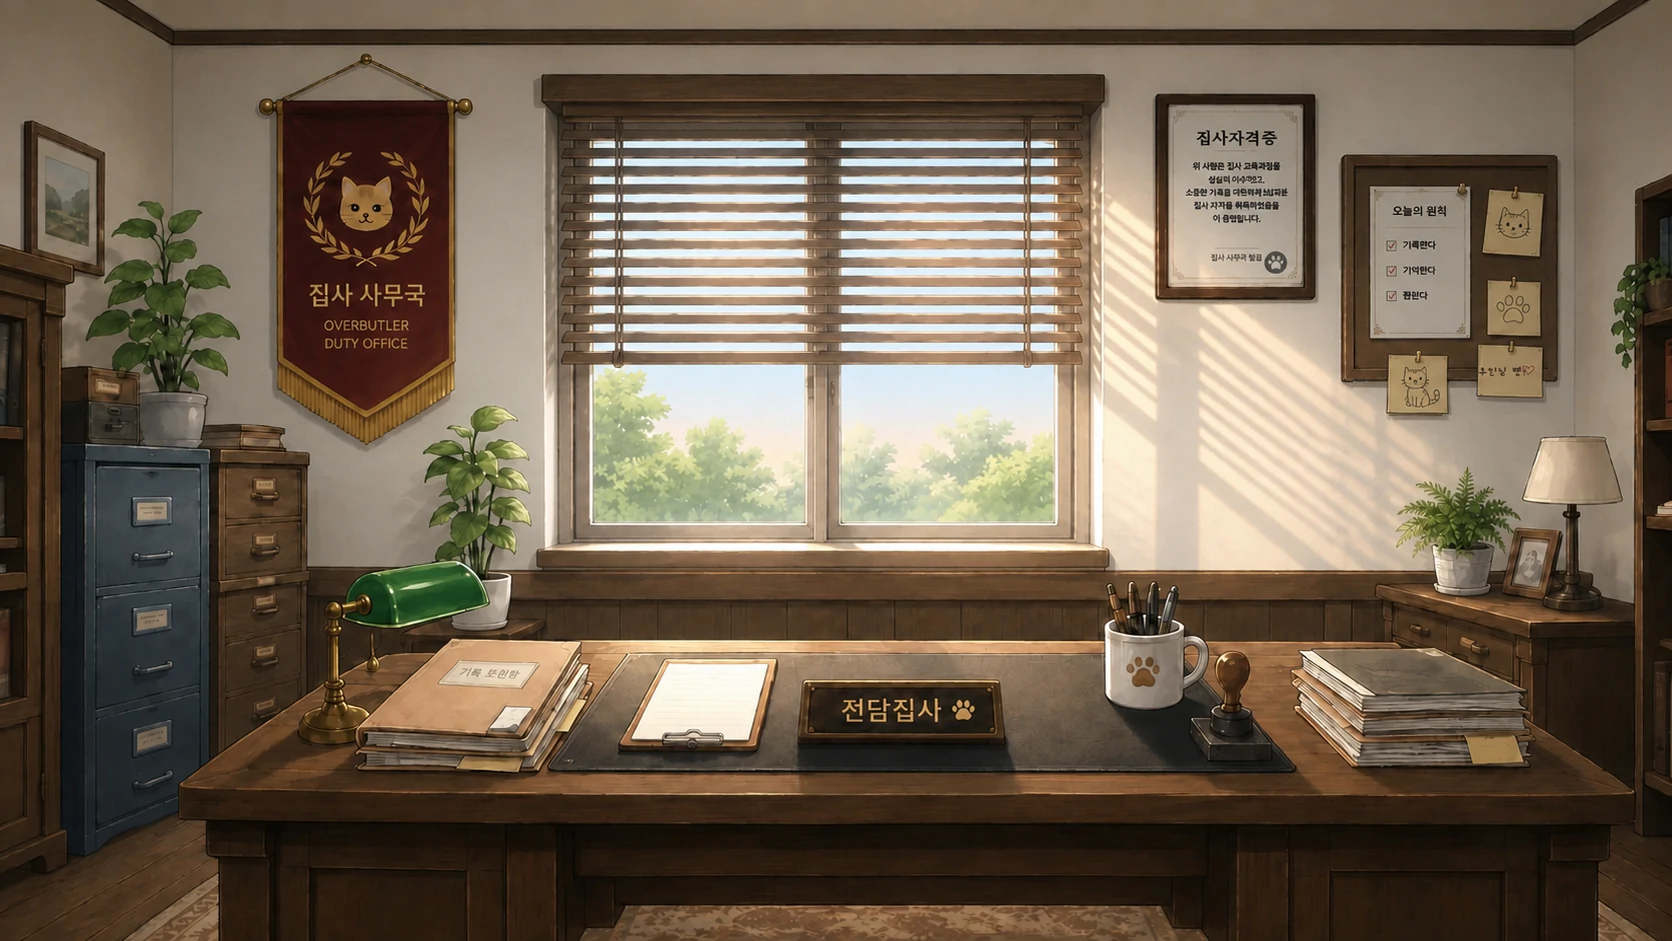
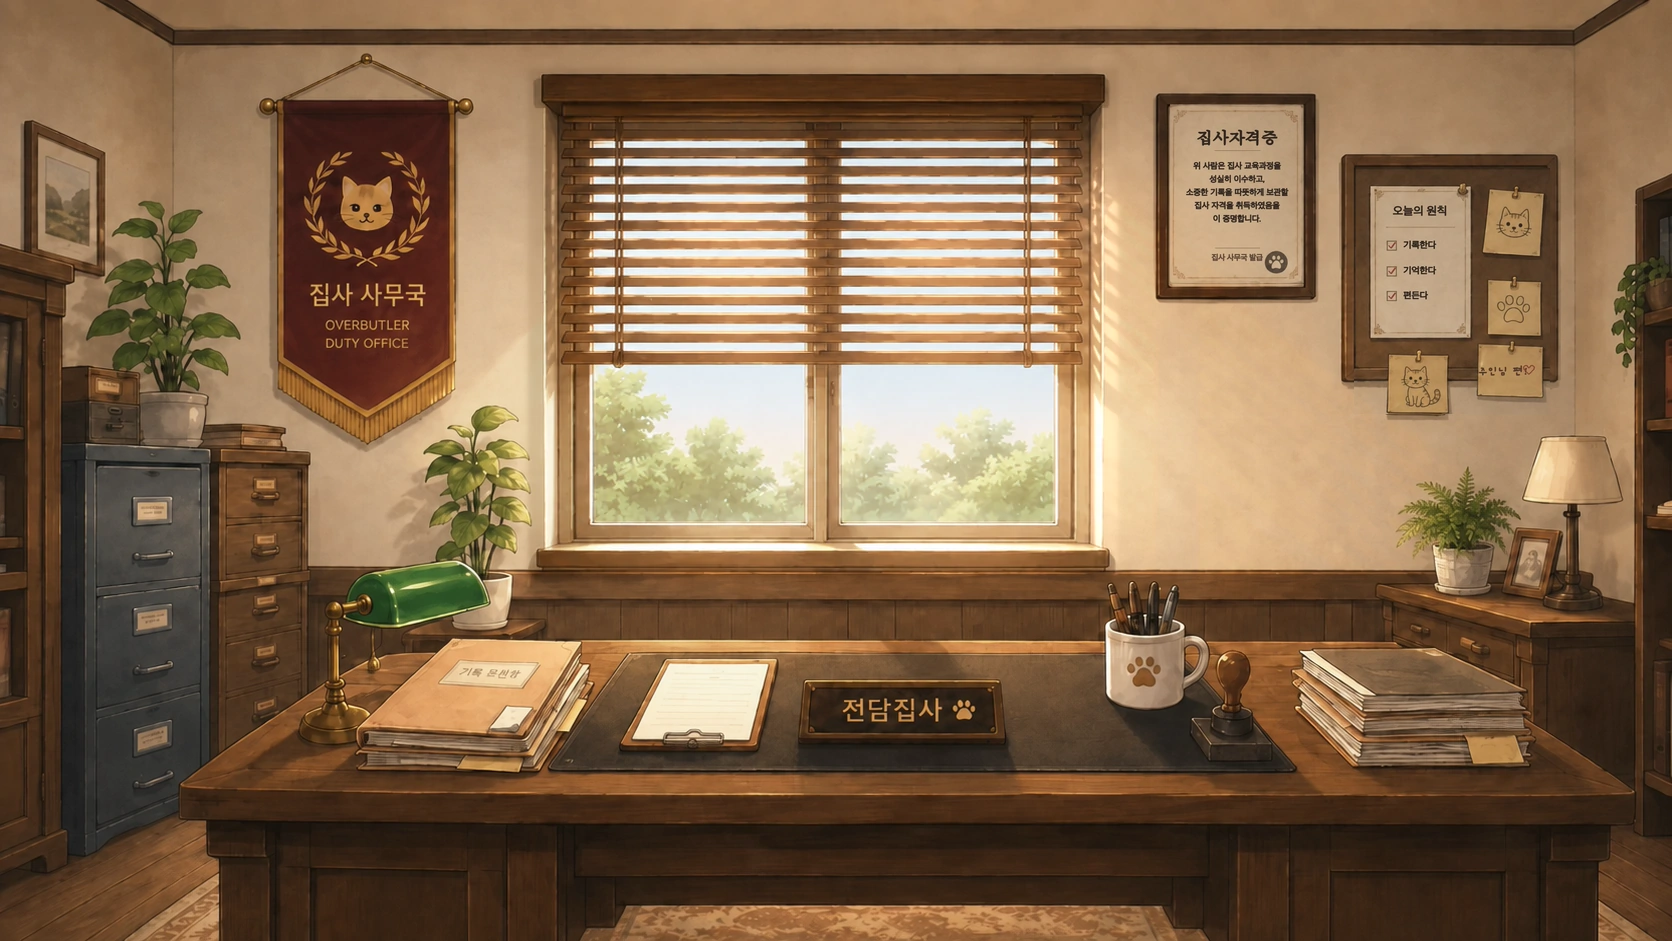
fix: preserve cat office detail across time lighting

diff --git a/retro-office.css b/retro-office.css
@@ -4613,20 +4613,62 @@
   transition: filter 520ms ease, opacity 220ms ease;
 }
 
-html[data-cat-room-light="dawn"] [data-desk-pose] {
-  filter: brightness(.84) saturate(.8) contrast(.94);
-}
-
-html[data-cat-room-light="sunset"] [data-desk-pose] {
-  filter: brightness(.93) saturate(.94) sepia(.08);
-}
-
+html[data-cat-room-light="dawn"] [data-desk-pose],
+html[data-cat-room-light="morning"] [data-desk-pose],
+html[data-cat-room-light="day"] [data-desk-pose],
+html[data-cat-room-light="sunset"] [data-desk-pose],
 html[data-cat-room-light="night-on"] [data-desk-pose] {
-  filter: brightness(.82) saturate(.86) contrast(.94) sepia(.05);
+  filter: none;
 }
 
 html[data-cat-room-light="night-off"] [data-desk-pose] {
   filter: brightness(.66) saturate(.72) contrast(.9);
+}
+
+#cat-home-world .cat-home-background,
+#cat-home-world .cat-home-foreground {
+  transition: filter 520ms ease;
+}
+
+html[data-cat-room-light="dawn"] #cat-home-world .cat-home-background,
+html[data-cat-room-light="dawn"] #cat-home-world .cat-home-foreground {
+  filter: brightness(.82) saturate(.78) contrast(.94);
+}
+
+html[data-cat-room-light="sunset"] #cat-home-world .cat-home-background,
+html[data-cat-room-light="sunset"] #cat-home-world .cat-home-foreground {
+  filter: brightness(.92) saturate(.95) sepia(.06);
+}
+
+html[data-cat-room-light="night-on"] #cat-home-world .cat-home-background,
+html[data-cat-room-light="night-on"] #cat-home-world .cat-home-foreground {
+  filter: brightness(.72) saturate(.78) contrast(.95) sepia(.06);
+}
+
+html[data-cat-room-light="night-off"] #cat-home-world .cat-home-background,
+html[data-cat-room-light="night-off"] #cat-home-world .cat-home-foreground {
+  filter: brightness(.56) saturate(.68) contrast(.92);
+}
+
+#cat-home-world .cat-home-background::after {
+  content: "";
+  position: absolute;
+  inset: 0;
+  pointer-events: none;
+  opacity: 0;
+  transition: opacity 520ms ease;
+}
+
+html[data-cat-room-light="night-on"] #cat-home-world .cat-home-background::after {
+  opacity: 1;
+  background:
+    radial-gradient(circle at 13% 70%, rgba(255, 196, 105, .23), transparent 20%),
+    radial-gradient(circle at 91% 52%, rgba(255, 181, 90, .28), transparent 24%);
+}
+
+html[data-cat-room-light="night-off"] #cat-home-world .cat-home-background::after {
+  opacity: 1;
+  background: radial-gradient(circle at 91% 52%, rgba(255, 181, 90, .3), transparent 25%);
 }
 
 .cat-room-lamp-hotspot {
@@ -4669,5 +4711,5 @@ html[data-cat-room-light="night-off"] [data-desk-pose] {
 }
 
 #view-home .reception-slip {
-  margin: 8px 16px 0;
+  margin: -8px 16px 0;
 }

diff --git a/app.js b/app.js
@@ -6124,6 +6124,7 @@
   });
   let nightLampOn = sessionStorage.getItem("overbutler_cat_room_lamp") !== "off";
   let currentRoomState = "";
+  let lampAudioContext = null;
 
   Object.values(ROOM_IMAGES).forEach((src) => {
     const image = new Image();
@@ -6146,6 +6147,26 @@
     });
   }
 
+  function playCatOfficeLampBeep() {
+    if (!document.querySelector("#sound-toggle")?.checked) return;
+    const AudioContextClass = window.AudioContext || window.webkitAudioContext;
+    if (!AudioContextClass) return;
+    lampAudioContext ||= new AudioContextClass();
+    const oscillator = lampAudioContext.createOscillator();
+    const gain = lampAudioContext.createGain();
+    const now = lampAudioContext.currentTime;
+    oscillator.type = "sine";
+    oscillator.frequency.setValueAtTime(620, now);
+    oscillator.frequency.exponentialRampToValueAtTime(470, now + 0.065);
+    gain.gain.setValueAtTime(0.0001, now);
+    gain.gain.exponentialRampToValueAtTime(0.035, now + 0.008);
+    gain.gain.exponentialRampToValueAtTime(0.0001, now + 0.075);
+    oscillator.connect(gain);
+    gain.connect(lampAudioContext.destination);
+    oscillator.start(now);
+    oscillator.stop(now + 0.08);
+  }
+
   function ensureCatOfficeLampHotspot(host) {
     if (!host) return;
     let hotspot = host.querySelector(".cat-room-lamp-hotspot");
@@ -6158,6 +6179,7 @@
       hotspot.addEventListener("pointerup", (event) => {
         event.preventDefault();
         event.stopPropagation();
+        playCatOfficeLampBeep();
         nightLampOn = !nightLampOn;
         sessionStorage.setItem("overbutler_cat_room_lamp", nightLampOn ? "on" : "off");
         applyCatOfficeTime(true);
